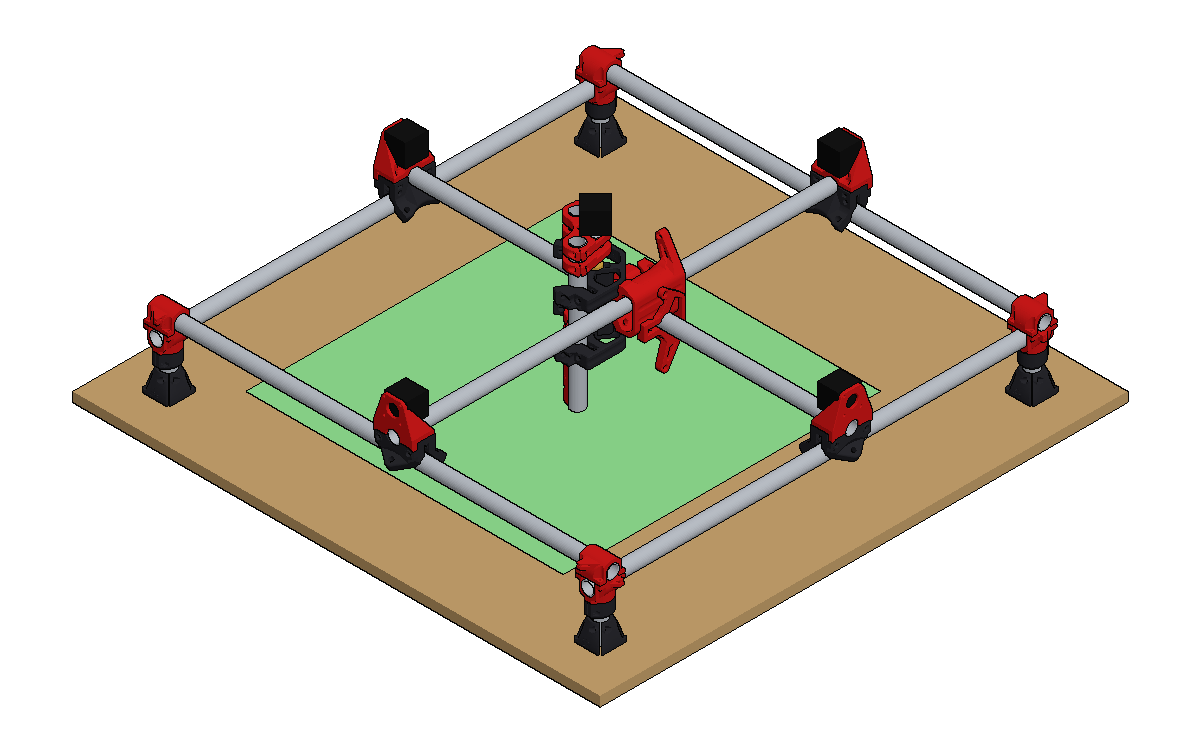
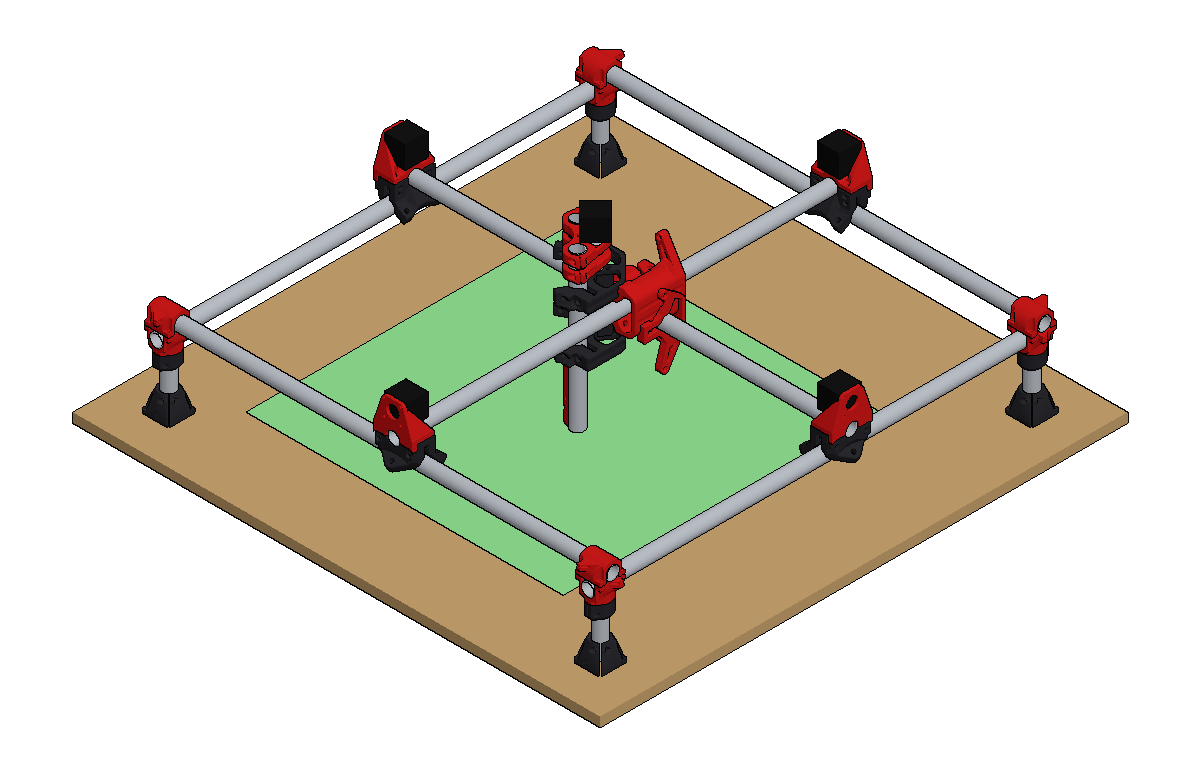
Use measured leg length and lower rail height
Legs 90 mm and the lower rails' underside 117 mm above the table, as
measured on the machine; the frame is built up from the rail height.

diff --git a/design.py b/design.py
@@ -227,7 +227,7 @@ def nema(centre, shaft_axis, label):
 # Top Corner: rail U along Zp at (138.5, 107.07), flange face Yp 94.07, M4 square about (138.5, 23.5).
 #   U centre - flange = 12.96 + 13.0, so the corner halves sit 1.54 apart when the spacer sets 27.5.
 # Spacer Corner: saddles along Zp at (Xp 11.7, Yp 0) and along Xp at (Yp 27.5, Zp 11.7).
-# Foot: leg bore (102.5, 102.5) open to the table.
+# Foot: leg bore (102.5, 102.5) open to the table; the leg is clamped at any height in it.
 # Roller: rail along Zp at (90.18, 110) - two bearings on M8 bolts along Yp at (Xp 113.88, Zp 9.1 /
 #   65.9) ride its top; gantry saddle along Yp at (Xp 128.45, Zp 37.5) r 13.05 -> tube centre Xp 128.1.
 # RollerMount: gantry bore along Zp at (67.5, 80.22); screws at Xp 40.58 / 94.45, Zp 35.3 into the
@@ -257,8 +257,13 @@ TOOL_FACE_M = (102.5, 86.33 - (91.49 - 72.5))
 lx = (C["x_rail"] - 47) / 2          # leg / rail lines; the corners are 47 long along each rail
 ly = (C["y_rail"] - 47) / 2
 leg = C["leg"]
-z_lt = leg + LOCK_FLOOR                              # lock floor top = bottom corner back
-z_lr = z_lt + (128 - 105.06) - U_SAG                 # Y rails (lower)
+# Measured on the machine: leg length and the height of the lower rails' underside. The legs are
+# set in the feet with a block, so the leg bottom sits leg_lift above the table.
+R_TUBE = P["tube_od"] / 2
+z_lr = P["lower_rail_bottom"] + R_TUBE               # Y rails (lower)
+z_lt = z_lr - (128 - 105.06) + U_SAG                 # lock floor top = bottom corner back
+leg_lift = z_lt - LOCK_FLOOR - leg
+assert 0 <= leg_lift <= 25, f"leg bottom {leg_lift:.1f} mm above the table - check leg / lower_rail_bottom"
 z_ur = z_lr + RAIL_STACK                             # X rails (upper)
 z_gx = z_lr + GANTRY_ABOVE_RAIL                      # X gantry tube, carried along the Y rails
 z_gy = z_ur + GANTRY_ABOVE_RAIL
@@ -282,7 +287,7 @@ for i, (sx, sy) in enumerate([(-1, -1), (1, -1), (1, 1), (-1, 1)]):
     Tl, Tb, Ts, Tt = (compose(place, T) for T in (T_lock, T_bot, T_spc, T_top))
     corners.append(bd.Compound(label=f"Corner {i + 1}", children=[
         part("foot", compose(at(sx * lx, sy * ly), T_foot), "Foot", A),
-        tube(leg, "Leg", (sx * lx, sy * ly, leg / 2)),
+        tube(leg, "Leg", (sx * lx, sy * ly, leg_lift + leg / 2)),
         part("lock_corner", Tl, label_m("Lock Corner", Tl), A),
         part("bottom_corner", Tb, label_m("Bottom Corner", Tb), B),
         part("spacer_corner", Ts, "Spacer Corner", A),
@@ -410,7 +415,7 @@ if P.get("debug_report"):
         "rel_middle_xy": ([round(v, 1) for v in rel_lo], [round(v, 1) for v in rel_hi]),
         "tool_from_gantry": (round(tool_dx, 1), round(tool_dy, 1)),
         "work_centre": (round(wcx, 1), round(wcy, 1)),
-        "z": {"lock_top": round(z_lt, 2), "lower_rail": round(z_lr, 2), "upper_rail": round(z_ur, 2),
+        "z": {"leg_lift": round(leg_lift, 2), "lock_top": round(z_lt, 2), "lower_rail": round(z_lr, 2), "upper_rail": round(z_ur, 2),
               "x_gantry": round(z_gx, 2), "y_gantry": round(z_gy, 2), "xyz_top": round(z_xyz_top, 2),
               "z_rail_bottom_min": round(zrb_min, 2)},
     }))

diff --git a/burly_calc.py b/burly_calc.py
@@ -1,5 +1,6 @@
 """V1's Burly cut list (docs.v1e.com/mpcnc/burly/conduit): every X and Y tube - both rails and the
-gantry - is the same length, and the usable area is that length less 264 mm.
+gantry - is the same length, and the usable area is that length less 264 mm. Legs are
+usable height - 13 unless params.json gives the measured length.
 Run directly to print the cut list for params.json."""
 import json
 from pathlib import Path
@@ -16,7 +17,7 @@ def cut_list(P):
         "x_rail": P["rail_x"], "y_rail": P["rail_y"],
         "x_work": P["rail_x"] - 264, "y_work": P["rail_y"] - 264, "z_work": P["z_work"],
         "z_rail": P["z_work"] + 190,
-        "leg": P["z_work"] - 13,
+        "leg": P.get("leg", P["z_work"] - 13),
         "leadscrew": P["z_work"] + 76,
     }
     c["tube_total"] = 3 * c["x_rail"] + 3 * c["y_rail"] + 2 * c["z_rail"] + 4 * c["leg"]

diff --git a/README.md b/README.md
@@ -1,6 +1,6 @@
 # MPCNC Burly (J / 25.4 mm) - Tertius model
 
-Tertius project: `mpcnc_burly`. Edit `params.json` (rail length, Z height, pose, colours), then recompile.
+Tertius project: `mpcnc_burly`. Edit `params.json` (rail length, leg, rail height, Z height, pose, colours), then recompile.
 Built as a base for designing add-on parts, so the printed parts are V1's real geometry, not stand-ins.
 
 ![The MPCNC Burly model](docs/burly-iso.png)
@@ -9,8 +9,11 @@ Built as a base for designing add-on parts, so the printed parts are V1's real g
   decimated by vertex clustering on a 0.35 mm grid and stored as `mesh_<part>.json`
   (int16 vertices at 0.02 mm, zlib + base64). V1's "M" (mirrored) parts are the same meshes reflected.
   The tool mount is the M4 version.
-- **Tubes** follow V1's Burly cut list (`burly_calc.py`): all six X/Y tubes (rails and gantries) are the
-  rail length, Z rails = usable height + 190, legs = usable height - 13.
+- **Measured on the machine:** 865 mm rails (corner to corner), 90 mm legs, and the lower rails'
+  underside 117 mm above the table. The model builds the frame up from that rail height, which leaves
+  the leg bottoms 9.9 mm above the table inside the feet (V1 sets the legs with a block).
+- **Other tubes** follow V1's Burly cut list (`burly_calc.py`): all six X/Y tubes (rails and gantries)
+  are the rail length; the usable height is taken as leg + 13 = 103 mm, so Z rails = 103 + 190 = 293 mm.
 - **Steppers, leadscrew, coupler and T8 nut** are simple stand-ins. Bolts, bearings and belts are not drawn.
   Neither is a spindle; the tool mount is the last part on the Z axis.
 
@@ -22,7 +25,7 @@ assembly photos (docs.v1e.com, Burly section):
 
 | Part | Located by |
 |---|---|
-| Foot, Leg | leg through the foot bore to the table |
+| Foot, Leg | leg clamped in the foot bore, at the height the measured rail height gives |
 | Lock Corner | cup on the leg top; the leg stops on its 7 mm floor |
 | Bottom Corner | back face glued to the lock floor, lock screw on the leg axis; lower (Y) rail in its U |
 | Spacer Corner | saddles on both rails: sets the rail stack to 27.5 mm |
@@ -36,29 +39,28 @@ assembly photos (docs.v1e.com, Burly section):
 | Tool Mount | rail cups on the Z rails, bottom flush with the rail bottoms (its screws land 22.5 and 97.5 mm up) |
 | Nut Trap (x2) | inside the Z rails, nuts at 22.5 and 97.5 mm |
 
-Less certain: the gap between Z Motor and Z Lower (set by your coupler, `z_mount_gap` = 10 mm), and the
+Less certain: the Z rail length (293 mm assumed from V1's formula, not measured), the gap between Z Motor and Z Lower (set by your coupler, `z_mount_gap` = 10 mm), and the
 spin of the gantry spacers about bolt B.
 
-## Findings (865 mm rails, 81 mm Z)
+## Findings (865 mm rails, 90 mm legs, lower rails 117 mm up)
 
-- **Heights:** lock top 75, Y rails 97.8, X rails 125.3, X gantry 135.7, Y gantry 163.2, top of the
-  middle 206.4 mm above the table.
+- **Heights:** leg bottom 9.9, lock top 106.9, Y rails 129.7 (underside 117), X rails 157.2,
+  X gantry 167.6, Y gantry 195.1, top of the middle 238.3 mm above the table.
 - **Travel:** the gantries move 572 mm each way before the rollers meet the corners or the middle
   meets the rollers (bounding boxes, so a little conservative), against V1's 601 mm usable.
-- **Z:** with the Z rail bottoms on the table, Z Lower is 21 mm above the T8 nut, so the table, not
+- **Z:** with the Z rail bottoms on the table, Z Lower is 11 mm above the T8 nut, so the table, not
   the machine, sets the lowest Z.
 
 ## Cut list
 
 ```
 MPCNC Burly J, rails 865 x 865 mm
-usable area   601 x 601 x 81 mm
+usable area   601 x 601 x 103 mm
   3 x x_rail     865.0 mm
   3 x y_rail     865.0 mm
-  2 x z_rail     271.0 mm
-  4 x leg         68.0 mm
-leadscrew     157 mm (T8)
-tube total    6004 mm
+  2 x z_rail     293.0 mm   (from V1's formula - measure yours)
+  4 x leg         90.0 mm   (measured)
+leadscrew     179 mm (T8)
 ```
 
 ## Licence and attribution
